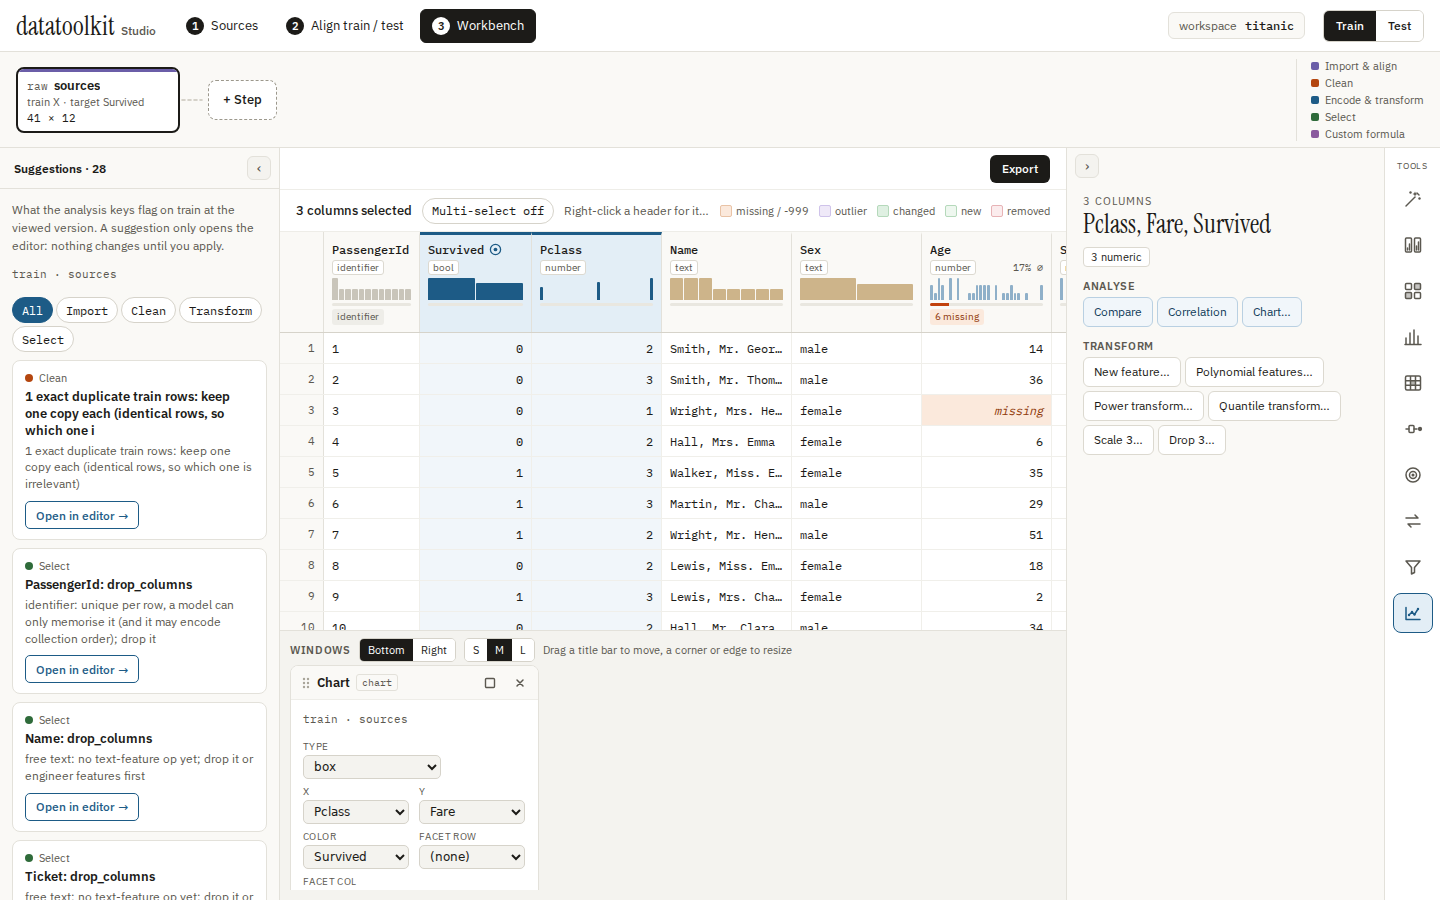
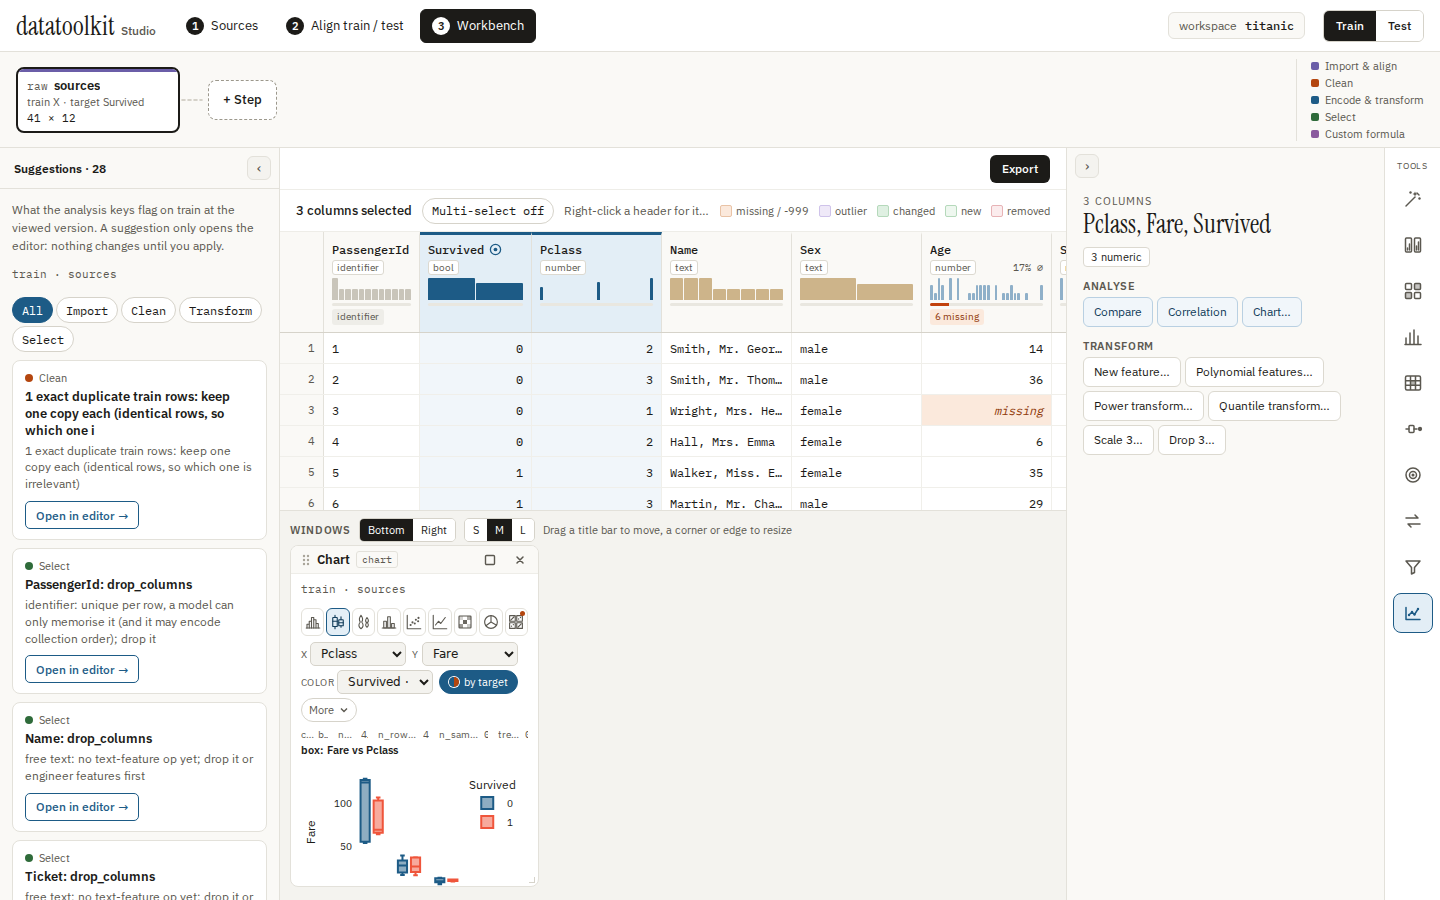
test(e2e): MAT-240 chart picker spec; compact narrow Chart window layout

Changed region(s): [[0.1875, 0.56, 0.5625, 0.9956], [0.5625, 0.6222, 0.5938, 0.6844]]

diff --git a/e2e/mat240-chart-picker.spec.ts b/e2e/mat240-chart-picker.spec.ts
@@ -1,0 +1,172 @@
+/**
+ * MAT-240 — Chart window: chart type as icon tiles (greyed when the selection
+ * cannot feed them), compact x / y / colour row, advanced knobs under "More",
+ * figure filling the window. Acceptance: scatter coloured by the target in
+ * 3 clicks from a 2-column selection.
+ */
+import { expect, test, type Locator, type Page } from "@playwright/test";
+
+import {
+  captureFlowScreenshot,
+  clearFlowScreenshots,
+  openWorkspaceBench,
+  titanicWorkspace,
+  waitForGridReady,
+} from "./helpers";
+
+const FLOW = "mat240-chart-picker";
+
+async function figureDrawn(page: Page, chart: Locator) {
+  await expect(chart.locator(".result-figure .js-plotly-plot").first()).toBeVisible({
+    timeout: 60_000,
+  });
+  await expect(chart.locator(".dock-msg", { hasText: "Loading…" })).toHaveCount(0, {
+    timeout: 60_000,
+  });
+}
+
+async function runChart(page: Page): Promise<Record<string, unknown>> {
+  const body = page.locator('.dock-window[data-tool="chart"] .chart-dock');
+  const raw = await body.getAttribute("data-run-params");
+  return JSON.parse(raw ?? "{}") as Record<string, unknown>;
+}
+
+test("MAT-240: icon chart picker, scatter by target in 3 clicks", async ({ page }) => {
+  test.setTimeout(240_000);
+  clearFlowScreenshots(FLOW);
+  await page.setViewportSize({ width: 1440, height: 900 });
+  await openWorkspaceBench(page, titanicWorkspace(), "Age");
+
+  // Starting point: the user has two numeric columns selected in the grid.
+  await page.evaluate(() => {
+    const d = window.__DTK_DISPATCH__!;
+    d({ type: "CLEAR_SELECTION" });
+    d({ type: "PICK_COL", name: "Age" });
+    d({ type: "PICK_COL", name: "Fare", add: true });
+  });
+  await waitForGridReady(page);
+
+  let clicks = 0;
+  const click = async (loc: Locator) => {
+    await loc.click();
+    clicks += 1;
+  };
+
+  // Click 1: Chart in the tool rail.
+  await click(
+    page.getByRole("navigation", { name: "Analysis tools" }).getByRole("button", {
+      name: "Chart",
+      exact: true,
+    }),
+  );
+  const chart = page.locator('.dock-window[data-tool="chart"]');
+  const body = chart.locator(".chart-dock");
+  await expect(body).toBeVisible();
+
+  // Tiles: scatter recommended for 2 numeric columns; incompatible ones greyed
+  // with the reason as hover text.
+  const tiles = chart.getByRole("radiogroup", { name: "Chart type" });
+  await expect(tiles.getByRole("radio")).toHaveCount(9);
+  const scatter = tiles.locator('[data-chart-tile="scatter"]');
+  await expect(scatter).toHaveAttribute("data-recommended", "1");
+  const matrix = tiles.locator('[data-chart-tile="scatter_matrix"]');
+  await expect(matrix).toHaveAttribute("aria-disabled", "true");
+  await expect(matrix).toHaveAttribute("title", /needs 3 numeric columns/);
+  const pie = tiles.locator('[data-chart-tile="pie"]');
+  await expect(pie).toHaveAttribute("aria-disabled", "true");
+  await expect(pie).toHaveAttribute("title", /needs a column with at most/);
+  // A greyed tile ignores clicks.
+  await matrix.click({ force: true });
+  await expect(body).not.toHaveAttribute("data-chart-type", "scatter_matrix");
+
+  // Click 2: the Scatter tile.
+  await click(scatter);
+  await expect(scatter).toHaveAttribute("aria-checked", "true");
+  await expect(body).toHaveAttribute("data-chart-type", "scatter");
+  await expect(body).toHaveAttribute("data-chart-x", "Age");
+  await expect(body).toHaveAttribute("data-chart-y", "Fare");
+
+  // Click 3: colour by the target.
+  const byTarget = chart.locator("[data-chart-color-target]");
+  await expect(byTarget).toHaveAttribute("aria-pressed", "false");
+  await click(byTarget);
+  await expect(byTarget).toHaveAttribute("aria-pressed", "true");
+  await expect(body).toHaveAttribute("data-chart-color", "Survived");
+  await figureDrawn(page, chart);
+  await expect
+    .poll(async () => runChart(page), { timeout: 60_000 })
+    .toMatchObject({ chart: "scatter", x: "Age", y: "Fare", color: "Survived" });
+  expect(clicks).toBe(3);
+
+  // Advanced knobs stay folded until "More".
+  await expect(chart.locator("#chart-more")).toHaveCount(0);
+  await expect(chart.getByLabel("Sample size")).toHaveCount(0);
+
+  // The figure takes most of the window.
+  const winBox = await chart.boundingBox();
+  const plotBox = await chart.locator(".result-plot-box").first().boundingBox();
+  expect(winBox && plotBox).toBeTruthy();
+  expect(plotBox!.height).toBeGreaterThan(winBox!.height * 0.4);
+  await waitForGridReady(page);
+  await captureFlowScreenshot(page, FLOW, "01-scatter-by-target-3-clicks.png");
+
+  // Maximised window: the figure follows the new size.
+  await page.evaluate(() => {
+    window.__DTK_DISPATCH__!({ type: "SET_MAXIMIZED", id: "chart" });
+  });
+  await expect
+    .poll(
+      async () =>
+        (await chart.locator(".result-plot-box").first().boundingBox())?.height ?? 0,
+      { timeout: 15_000 },
+    )
+    .toBeGreaterThan(plotBox!.height + 100);
+  await expect
+    .poll(
+      async () => {
+        const svg = await chart.locator(".result-figure .main-svg").first().boundingBox();
+        const boxNow = await chart.locator(".result-plot-box").first().boundingBox();
+        return svg && boxNow ? Math.abs(svg.height - boxNow.height) : 999;
+      },
+      { timeout: 15_000 },
+    )
+    .toBeLessThan(4);
+
+  // "More" opens the advanced knobs; trendline still reaches the engine.
+  await chart.locator("[data-chart-more]").click();
+  await expect(chart.locator("#chart-more")).toBeVisible();
+  await chart.getByLabel("Trendline").check();
+  await expect(body).toHaveAttribute("data-chart-trendline", "1");
+  await figureDrawn(page, chart);
+  await expect(chart.locator("[data-chart-more]")).toContainText("More · 1");
+  await captureFlowScreenshot(page, FLOW, "02-maximized-more-open.png");
+
+  // Switching tile re-maps the encoding (histogram of Age, colour kept).
+  await tiles.locator('[data-chart-tile="histogram"]').click();
+  await expect(body).toHaveAttribute("data-chart-type", "histogram");
+  await expect(body).toHaveAttribute("data-chart-x", "Age");
+  await expect(body).toHaveAttribute("data-chart-y", "");
+  await expect(body).toHaveAttribute("data-chart-color", "Survived");
+  await figureDrawn(page, chart);
+
+  // Back to the dock layout; a text-only selection greys the numeric types.
+  await page.evaluate(() => {
+    window.__DTK_DISPATCH__!({ type: "SET_MAXIMIZED", id: null });
+  });
+  await page.evaluate(() => {
+    const d = window.__DTK_DISPATCH__!;
+    d({ type: "CLEAR_SELECTION" });
+    d({ type: "PICK_COL", name: "Sex" });
+  });
+  // Sex + the plotted Age: scatter (2 numeric) greyed, bar recommended.
+  await expect(tiles.locator('[data-chart-tile="bar"]')).toHaveAttribute(
+    "data-recommended",
+    "1",
+  );
+  await expect(tiles.locator('[data-chart-tile="scatter"]')).toHaveAttribute(
+    "aria-disabled",
+    "true",
+  );
+  await waitForGridReady(page);
+  await captureFlowScreenshot(page, FLOW, "03-text-selection-greys-numeric-types.png");
+});

diff --git a/src/bench/dock/ChartDock.css b/src/bench/dock/ChartDock.css
@@ -217,24 +217,87 @@
   max-width: 260px;
 }
 
-/* Narrow window: icon-only tiles, tighter selects. */
+/* Engine metrics as one quiet line: the figure is the answer. */
+.chart-dock .result-metrics {
+  display: flex;
+  flex-wrap: wrap;
+  gap: 0 10px;
+}
+
+.chart-dock .result-metric {
+  flex: 0 0 auto;
+  flex-direction: row;
+  align-items: baseline;
+  gap: 4px;
+  padding: 0;
+  border: 0;
+  background: none;
+}
+
+.chart-dock .result-metric .mono {
+  font-size: 10px;
+  color: var(--dtk-muted);
+}
+
+.chart-dock .result-table-title {
+  margin-bottom: 0;
+}
+
+/* Narrow window: icon-only tiles on one row, inline labels. */
 @container chart-dock (max-width: 460px) {
+  .chart-dock {
+    gap: 4px;
+  }
+
   .chart-tiles {
-    grid-template-columns: repeat(auto-fill, minmax(32px, 1fr));
-    gap: 3px;
+    grid-template-columns: repeat(auto-fill, minmax(22px, 1fr));
+    gap: 2px;
   }
 
   .chart-tile {
-    height: 32px;
+    height: 28px;
     padding: 0;
+  }
+
+  .chart-tile svg {
+    width: 18px;
+    height: 18px;
   }
 
   .chart-tile-label {
     display: none;
   }
 
+  .chart-tile[data-recommended="1"]::after {
+    top: 2px;
+    right: 2px;
+    width: 5px;
+    height: 5px;
+  }
+
+  .chart-encode {
+    gap: 4px 6px;
+    align-items: center;
+  }
+
+  .chart-encode .chart-field {
+    flex-direction: row;
+    align-items: center;
+    gap: 3px;
+  }
+
   .chart-field select {
-    min-width: 72px;
-    max-width: 110px;
+    min-width: 64px;
+    max-width: 96px;
+  }
+
+  .chart-more-toggle {
+    margin-left: 0;
+    padding: 0 7px;
+  }
+
+  .chart-dock .result-metrics {
+    flex-wrap: nowrap;
+    overflow: hidden;
   }
 }
